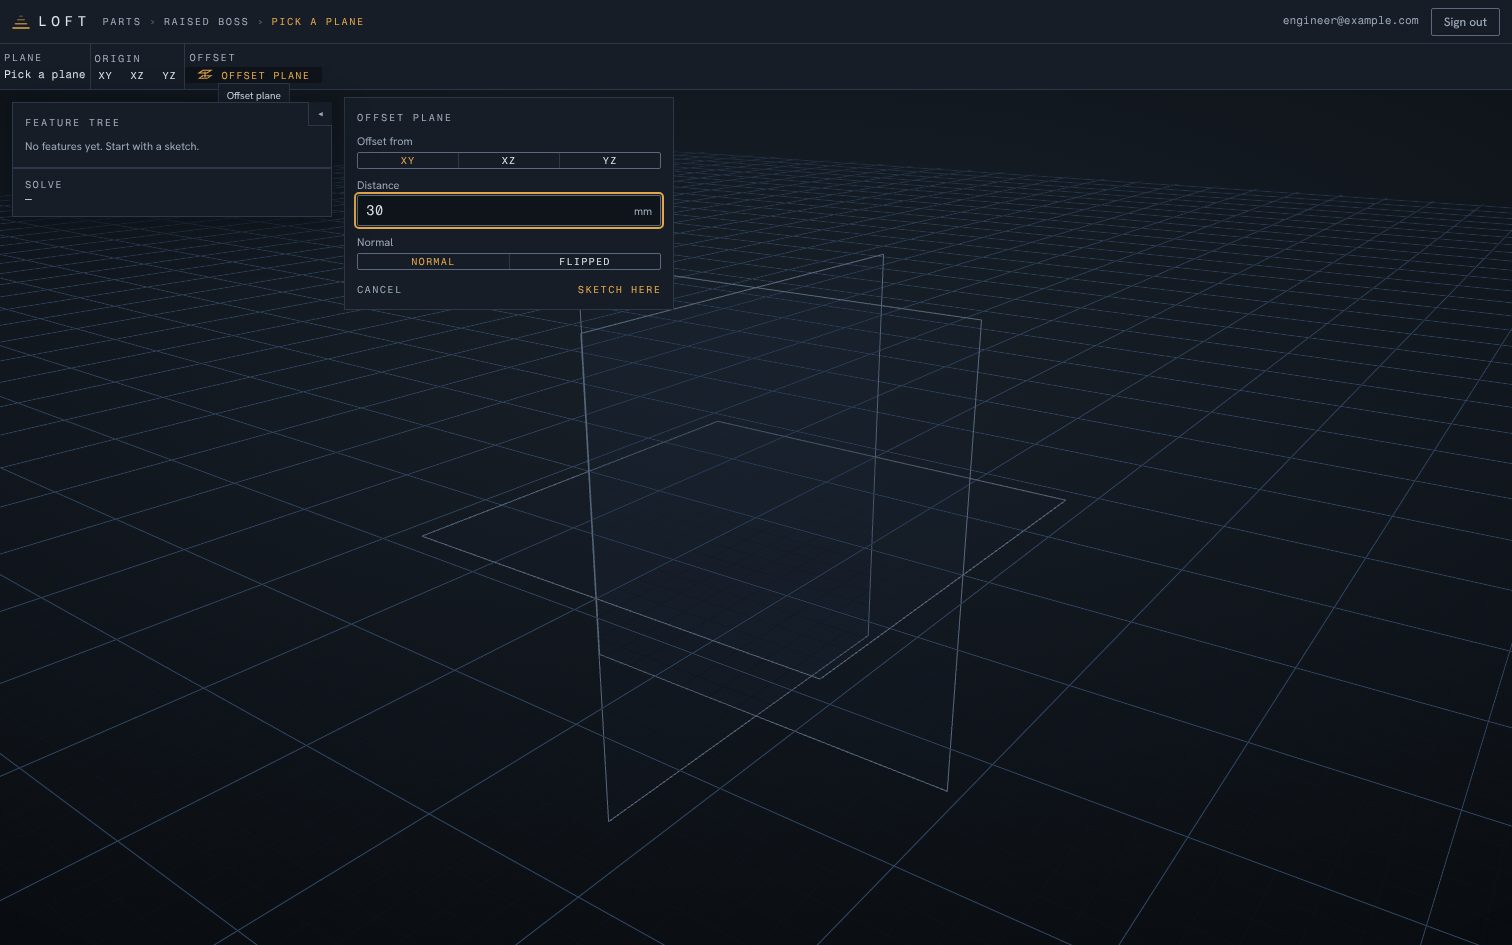
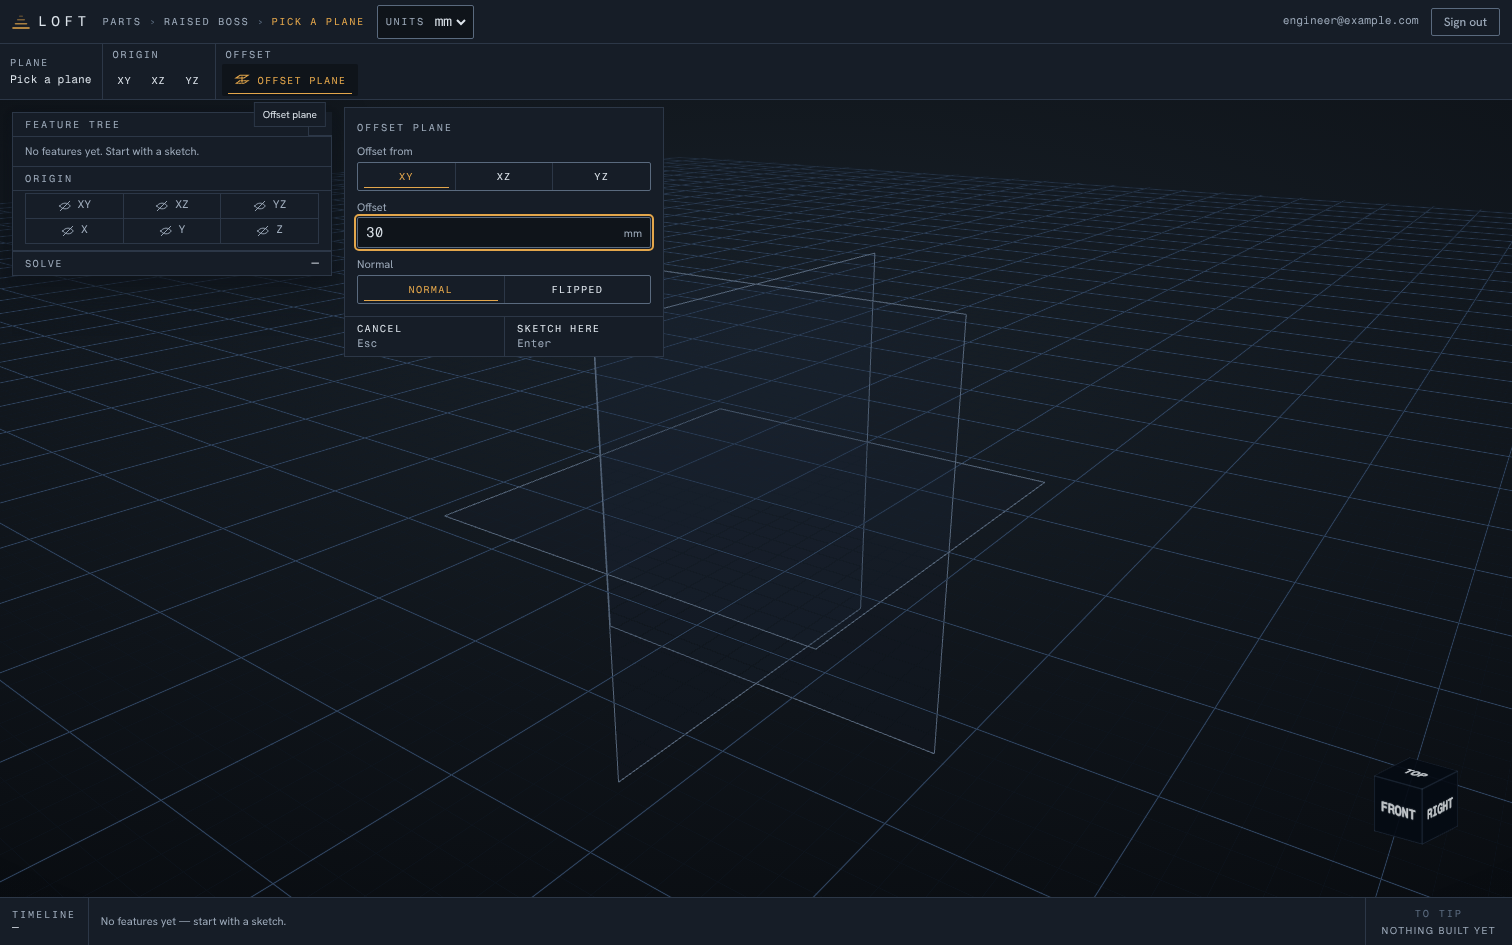
fix(web): the offset-plane panel says why "Sketch here" is grey
OffsetPlanePanel gated its commit with `canSubmitOffset(...) && !busy` on
a native `disabled` button and no sentence. Clear the distance and "Sketch
here" went grey, dropped out of the accessibility tree, could not be hovered
or focused, and explained nothing. It was the one gated commit in the sketch
flow that did not follow the editors' rule: the action is enabled iff there
is no blocker sentence, and the sentence is shown.

It now follows that rule, with no second copy of it. The offset form IS the
datum editor's `offset` kind, so the panel asks the same
`datumSubmitBlocker({ kind: "offset", ...form }, unit)` and `canSubmit` is
defined as "no blocker". Cancel / Sketch here are the editors'
`PanelActionCell` row (`aria-disabled`, reason on the caption line and as
the accessible description) instead of two restyled raw buttons. The field
is labelled "Offset", the word the sentence and the datum editor both use,
where it said "Distance".

Evidence (native stack, 1280x800 and 1440x900):
- offset-plane-reason.spec.ts 2/2. Gated via aria-disabled, not the native
  attribute. "Enter the offset." has a real box that `elementFromPoint`
  resolves to the confirm cell and is its accessible description. The cell
  takes focus, a real click and Enter author nothing (proved against the one
  ungated press that authors exactly one datum), and the sentence clears on
  "30". Red on the pre-fix tree (native `disabled`).
[…]

diff --git a/apps/web/e2e/offset-plane-reason.spec.ts b/apps/web/e2e/offset-plane-reason.spec.ts
@@ -1,0 +1,113 @@
+import { expect, test, type Page } from "./fixtures";
+
+import { createPartViaApi, SCREENSHOT_DIR, seedSession } from "./support";
+
+/**
+ * THE OFFSET-PLANE PANEL SAYS WHY "SKETCH HERE" IS GREY (REASON-GATE rule).
+ *
+ * Every feature editor follows one rule: the commit action is enabled iff there
+ * is no blocker sentence, and the sentence is shown (`submitBlocker.ts`). The
+ * inline "sketch at a height" panel did not. Clear its distance and "Sketch
+ * here" went grey through the native `disabled` attribute: it could not be
+ * hovered or focused, it dropped out of the accessibility tree, and it said
+ * nothing. That is a dead control at the exact moment the user needs to be told
+ * what is missing.
+ *
+ * Asserted as INK and with the user's own mechanisms, never as markup:
+ * `toBeVisible()` passes a node clipped out of frame and `textContent` reads
+ * hidden nodes. So the sentence must have a real box that `elementFromPoint`
+ * resolves to the confirm cell itself, the cell must take keyboard focus (a
+ * natively-disabled button cannot), and a real click on it must write nothing.
+ */
+
+async function openOffsetPanel(page: Page): Promise<string> {
+  const { token } = await seedSession(page);
+  const part = await createPartViaApi(page, token, "Offset reason");
+  await page.goto(`/parts/${part.id}`);
+  await page.getByTestId("new-sketch").click();
+  await expect(page.getByTestId("sketch-step")).toHaveText("Pick a plane");
+  await page.getByTestId("datum-offset-plane").click();
+  await expect(page.getByTestId("offset-plane-panel")).toBeVisible();
+  return part.id;
+}
+
+const SIZES = [
+  { label: "1280", width: 1280, height: 800 },
+  { label: "1440", width: 1440, height: 900 },
+] as const;
+
+for (const size of SIZES) {
+  test(`a cleared offset explains the grey "Sketch here" (${size.width}x${size.height})`, async ({
+    page,
+  }) => {
+    await page.setViewportSize({ width: size.width, height: size.height });
+    const partId = await openOffsetPanel(page);
+    const writes: string[] = [];
+    page.on("request", (request) => {
+      if (
+        request.method() === "POST" &&
+        request.url().includes(`/parts/${partId}/features`)
+      ) {
+        writes.push(request.url());
+      }
+    });
+
+    await page.getByTestId("offset-plane-offset").fill("");
+    const confirm = page.getByTestId("offset-plane-confirm");
+    // Captured before the assertions, so a run against the pre-fix tree still
+    // writes its frame (that run is where the "before" half comes from).
+    await page.mouse.move(size.width - 40, size.height - 40);
+    await page.screenshot({
+      path: `${SCREENSHOT_DIR}/offset-plane-reason-after-${size.label}.png`,
+    });
+
+    // Gated the way this product gates: `aria-disabled`, which Playwright's
+    // `toBeDisabled` honours, and NOT the native attribute.
+    await expect(confirm).toBeDisabled();
+    await expect(confirm).not.toHaveAttribute("disabled", /.*/);
+
+    // The sentence is ink, inside the cell it explains.
+    const reason = confirm.locator("[data-disabled-reason]");
+    await expect(reason).toHaveText("Enter the offset.");
+    const box = await reason.boundingBox();
+    expect(box, "the reason has a box").not.toBeNull();
+    expect(box!.width).toBeGreaterThan(20);
+    expect(box!.height).toBeGreaterThan(6);
+    const hit = await page.evaluate(
+      ([x, y]) =>
+        document
+          .elementFromPoint(x as number, y as number)
+          ?.closest("[data-testid]")
+          ?.getAttribute("data-testid") ?? null,
+      [box!.x + box!.width / 2, box!.y + box!.height / 2],
+    );
+    expect(hit, "the reason hit-tests to its own cell").toBe(
+      "offset-plane-confirm",
+    );
+    // A screen reader gets the same sentence as the eye.
+    await expect(confirm).toHaveAccessibleDescription("Enter the offset.");
+
+    // Still reachable: it takes focus, and a real click writes nothing.
+    await confirm.focus();
+    await expect(confirm).toBeFocused();
+    await page.mouse.click(box!.x + box!.width / 2, box!.y + box!.height / 2);
+    await page.keyboard.press("Enter");
+
+    // Type a distance and the sentence goes; the action is live again.
+    await page.getByTestId("offset-plane-offset").fill("30");
+    await expect(confirm).toBeEnabled();
+    await expect(reason).toHaveCount(0);
+
+    // And the gated presses above authored NOTHING, proved against a press that
+    // does: after this one, exactly ONE datum write has ever been sent. (A bare
+    // "no write yet" read right after the press would race the request.)
+    const authored = page.waitForResponse(
+      (r) =>
+        r.url().includes(`/parts/${partId}/features`) &&
+        r.request().method() === "POST",
+    );
+    await confirm.click();
+    expect((await authored).status()).toBe(201);
+    expect(writes, "only the ungated press may author a datum").toHaveLength(1);
+  });
+}

diff --git a/apps/web/src/components/SketchStrip.tsx b/apps/web/src/components/SketchStrip.tsx
@@ -56,6 +56,7 @@ import {
   NumberField,
   OffsetIcon,
   Panel,
+  PanelActionCell,
   ParallelIcon,
   PerpendicularIcon,
   RadiusIcon,
@@ -88,7 +89,7 @@ import {
 import { withoutDatums } from "../sketch/datum";
 import {
   buildOffsetParams,
-  canSubmitOffset,
+  datumSubmitBlocker,
   DATUM_BASES,
   defaultOffsetForm,
   type OffsetForm,
@@ -495,7 +496,15 @@ function OffsetPlanePanel({
 }) {
   const unit = useDocumentLengthUnit();
   const [form, setForm] = useState<OffsetForm>(defaultOffsetForm());
-  const canSubmit = canSubmitOffset(form, unit) && !busy;
+  // ONE computation, two readings (REASON-GATE-1, `submitBlocker.ts`): the
+  // action is enabled iff there is no blocker sentence, and the sentence is
+  // shown. The offset form IS the datum editor's `offset` kind, so it asks the
+  // same function that editor asks rather than a second copy of the rule.
+  // Null while creating: the label already says so.
+  const blocker = busy
+    ? null
+    : datumSubmitBlocker({ kind: "offset", ...form }, unit);
+  const canSubmit = blocker === null && !busy;
 
   const author = () => {
     const params = buildOffsetParams(form, unit);
@@ -528,7 +537,9 @@ function OffsetPlanePanel({
             onChange={(base) => setForm((f) => ({ ...f, base }))}
           />
           <NumberField
-            label="Distance"
+            // "Offset", the word the blocker sentence uses ("Enter the
+            // offset.") and the datum editor labels the same field with.
+            label="Offset"
             unit={unit}
             data-testid="offset-plane-offset"
             autoFocus
@@ -546,26 +557,28 @@ function OffsetPlanePanel({
             options={OFFSET_FLIP_OPTIONS}
             onChange={(v) => setForm((f) => ({ ...f, flip: v === "flip" }))}
           />
-          <div className="mt-1 flex items-center justify-between gap-2">
-            <button
-              type="button"
-              className="font-display text-2xs uppercase tracking-[0.14em] text-gauge hover:text-mist focus-visible:outline focus-visible:outline-2 focus-visible:outline-brass"
-              data-testid="offset-plane-cancel"
-              onClick={onClose}
-            >
-              Cancel
-            </button>
-            <button
-              type="button"
-              className="font-display text-2xs uppercase tracking-[0.14em] text-brass hover:text-brass-hover focus-visible:outline focus-visible:outline-2 focus-visible:outline-brass disabled:opacity-40"
-              data-testid="offset-plane-confirm"
-              aria-busy={busy}
-              disabled={!canSubmit}
-              onClick={author}
-            >
-              {busy ? "Creating…" : "Sketch here"}
-            </button>
-          </div>
+        </div>
+        {/* The editors' action row (`PanelActionCell`), not two restyled raw
+            buttons: a gated cell stays hoverable, focusable and in the
+            accessibility tree, and says WHY in the caption's line and in its
+            accessible description. The native `disabled` it replaces made a
+            grey "Sketch here" that could explain nothing to anyone. */}
+        <div className="grid grid-cols-2 divide-x divide-hairline border-t border-hairline">
+          <PanelActionCell
+            label="Cancel"
+            caption="Esc"
+            data-testid="offset-plane-cancel"
+            onClick={onClose}
+          />
+          <PanelActionCell
+            label={busy ? "Creating…" : "Sketch here"}
+            caption="Enter"
+            data-testid="offset-plane-confirm"
+            aria-busy={busy}
+            disabled={!canSubmit}
+            disabledReason={blocker ?? undefined}
+            onClick={author}
+          />
         </div>
       </Panel>
       {error ? (

diff --git a/apps/web/src/components/SketchStrip.test.tsx b/apps/web/src/components/SketchStrip.test.tsx
@@ -593,3 +593,72 @@ describe("a save in flight is reported, not used as a refusal", () => {
     expect(save.textContent).toContain("nothing drawn yet");
   });
 });
+
+describe("the offset-plane panel explains a grey Sketch here (REASON-GATE)", () => {
+  /*
+   * The panel's commit used the native `disabled` attribute and no sentence:
+   * clear the distance and "Sketch here" went grey, dropped out of the
+   * accessibility tree, could not be hovered or focused, and said nothing. The
+   * product rule every feature editor follows is "the action is enabled iff
+   * there is no blocker sentence, and the sentence is shown" — one
+   * computation, two readings (`submitBlocker.ts`).
+   */
+  function openOffsetPanel(onAuthor = vi.fn()) {
+    useSketchStore.getState().begin();
+    render(
+      <SketchStrip
+        onSave={vi.fn()}
+        saving={false}
+        saveError={null}
+        onAuthorOffsetPlane={onAuthor}
+      />,
+    );
+    fireEvent.click(screen.getByTestId("datum-offset-plane"));
+    return {
+      field: screen.getByTestId("offset-plane-offset"),
+      confirm: screen.getByTestId("offset-plane-confirm"),
+      onAuthor,
+    };
+  }
+
+  /** The text the confirm's accessible description resolves to. */
+  function description(el: HTMLElement): string {
+    const ids = (el.getAttribute("aria-describedby") ?? "").split(" ");
+    return ids
+      .map((id) => document.getElementById(id)?.textContent ?? "")
+      .join(" ")
+      .trim();
+  }
+
+  it("an empty distance gates the action AND names the way out", () => {
+    const { field, confirm, onAuthor } = openOffsetPanel();
+    fireEvent.change(field, { target: { value: "" } });
+    expectGated(confirm);
+    expect(confirm.textContent).toContain("Enter the offset.");
+    // The same sentence reaches a screen reader, not a parallel one.
+    expect(description(confirm)).toBe("Enter the offset.");
+    fireEvent.click(confirm);
+    expect(onAuthor).not.toHaveBeenCalled();
+  });
+
+  it("an unparseable distance says CHECK, not ENTER", () => {
+    const { field, confirm } = openOffsetPanel();
+    fireEvent.change(field, { target: { value: "abc" } });
+    expectGated(confirm);
+    expect(confirm.textContent).toContain("Check the offset.");
+  });
+
+  it("a valid distance carries no gate and no sentence, and commits", () => {
+    const { field, confirm, onAuthor } = openOffsetPanel();
+    fireEvent.change(field, { target: { value: "-12.5" } });
+    expectNotGated(confirm);
+    expect(confirm.querySelector("[data-disabled-reason]")).toBeNull();
+    fireEvent.click(confirm);
+    expect(onAuthor).toHaveBeenCalledWith({
+      kind: "offset",
+      base: "XY",
+      offset_mm: -12.5,
+      flip: false,
+    });
+  });
+});
